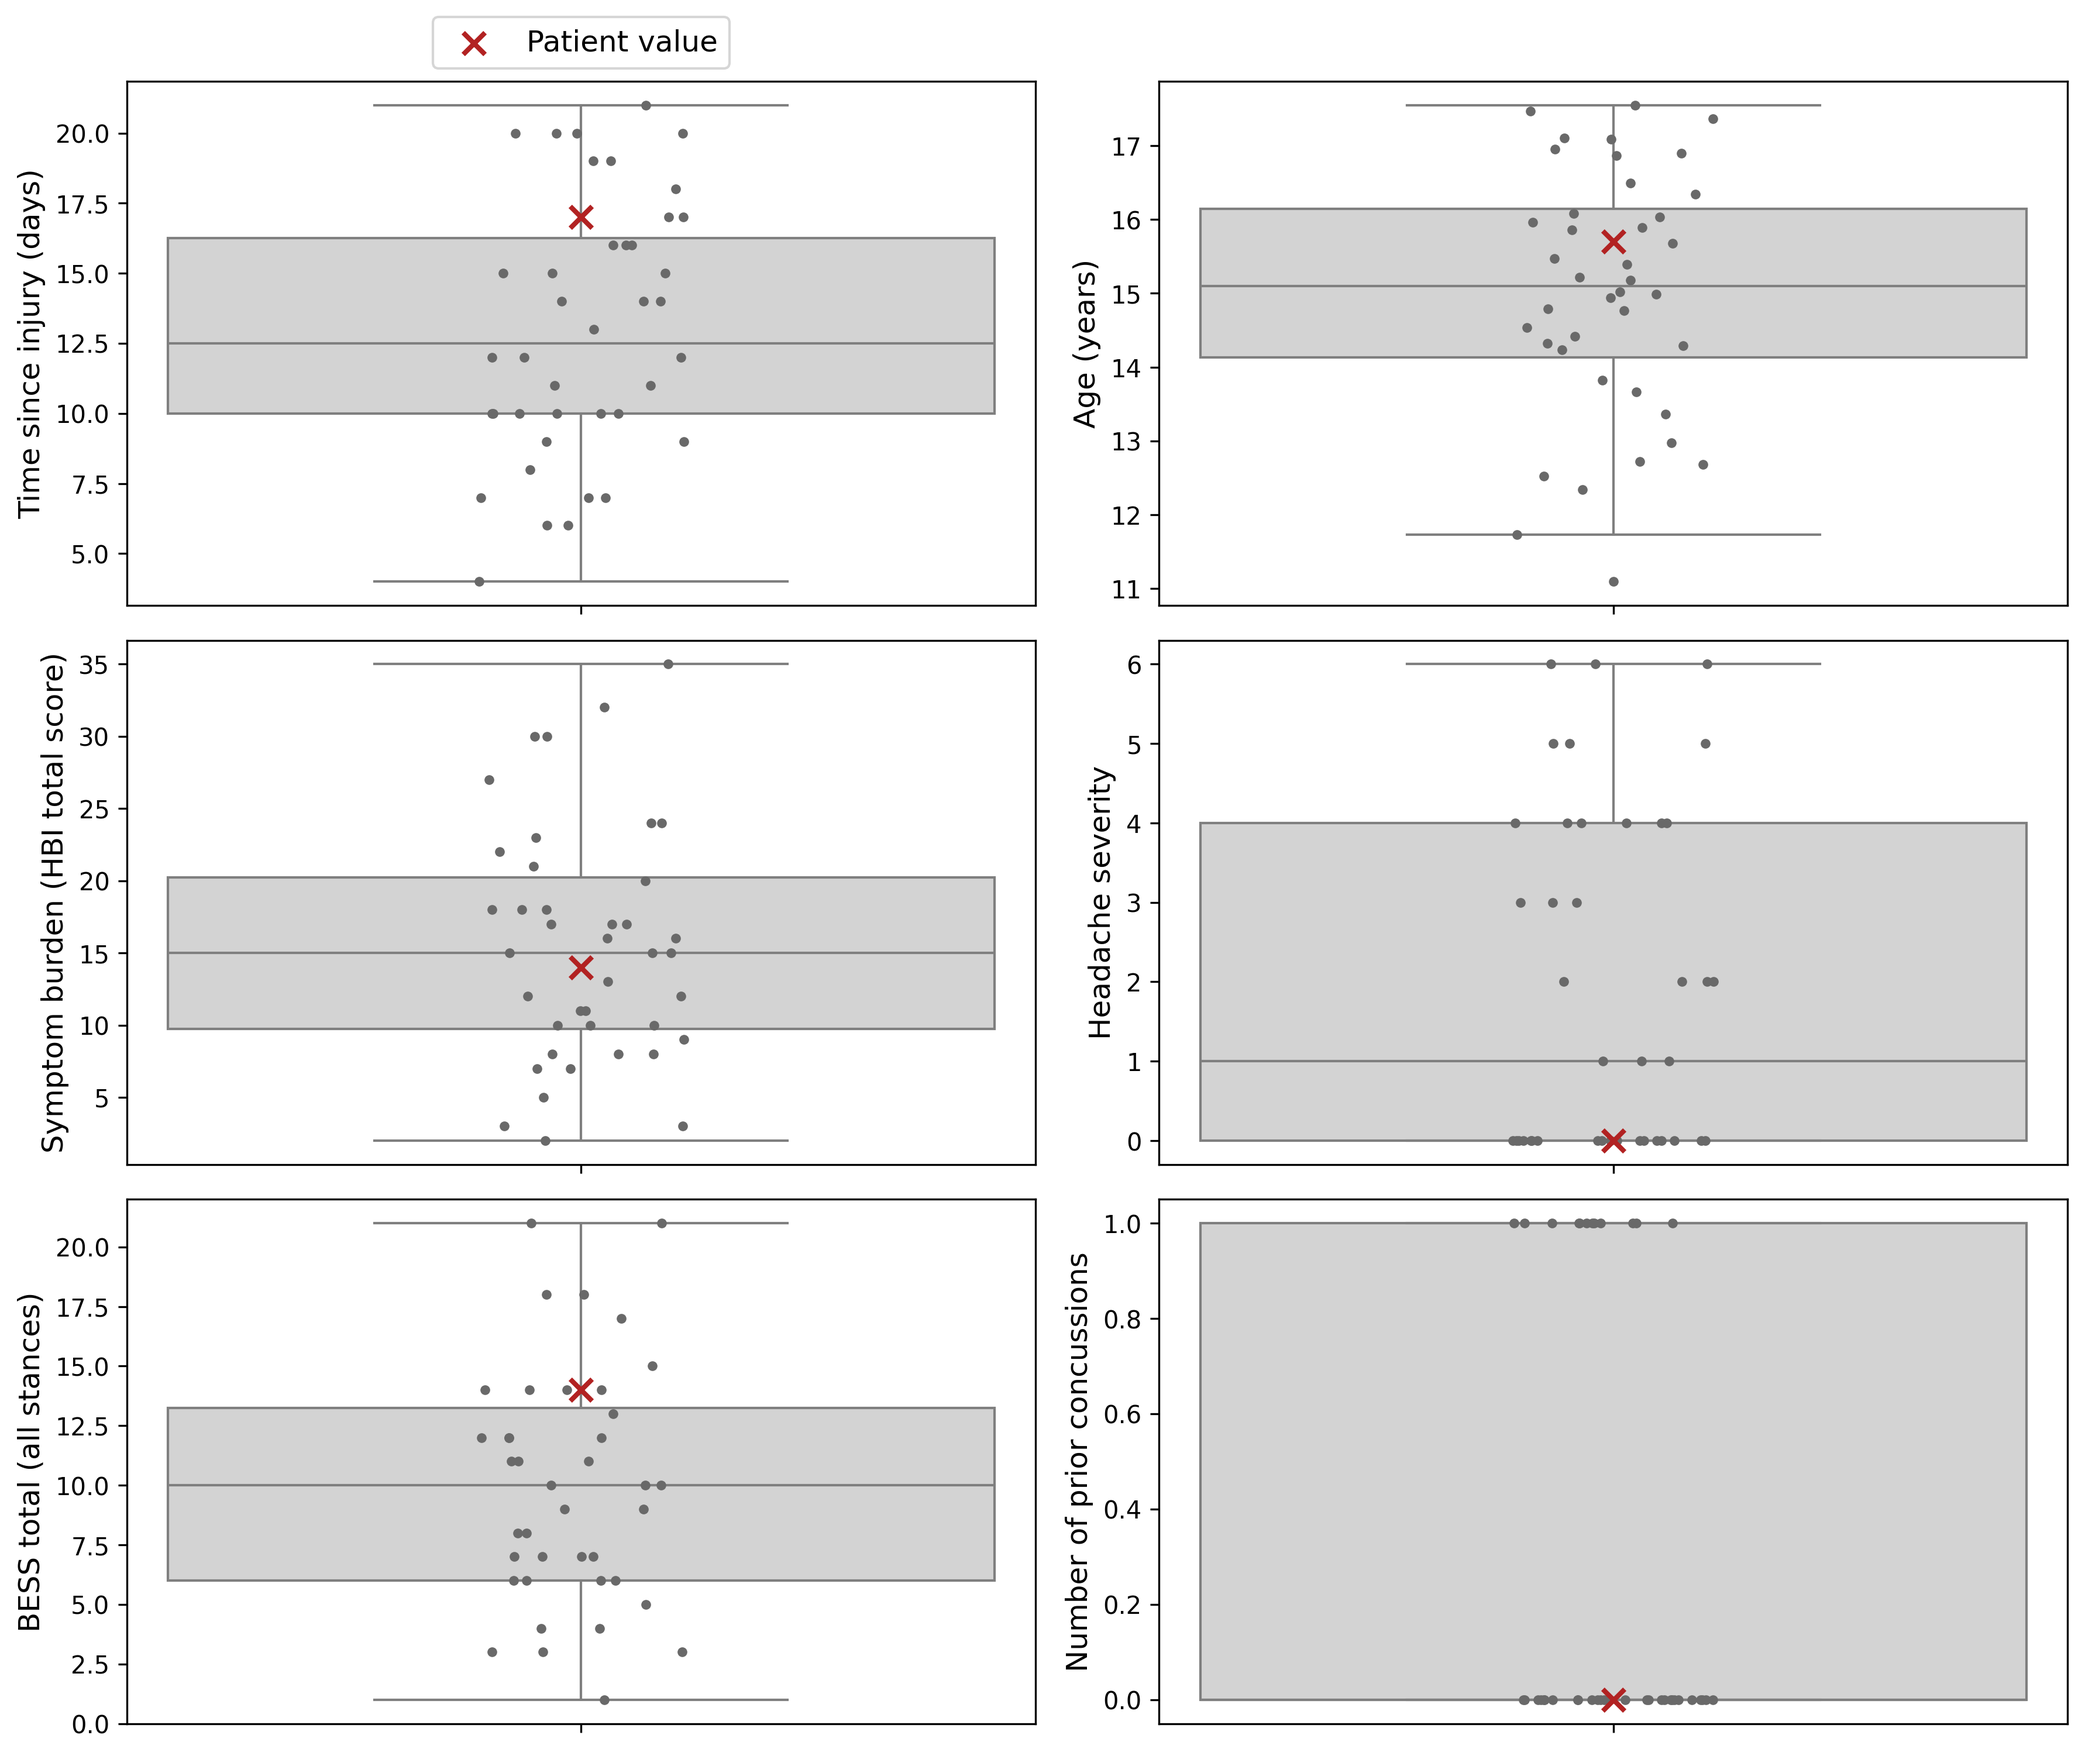
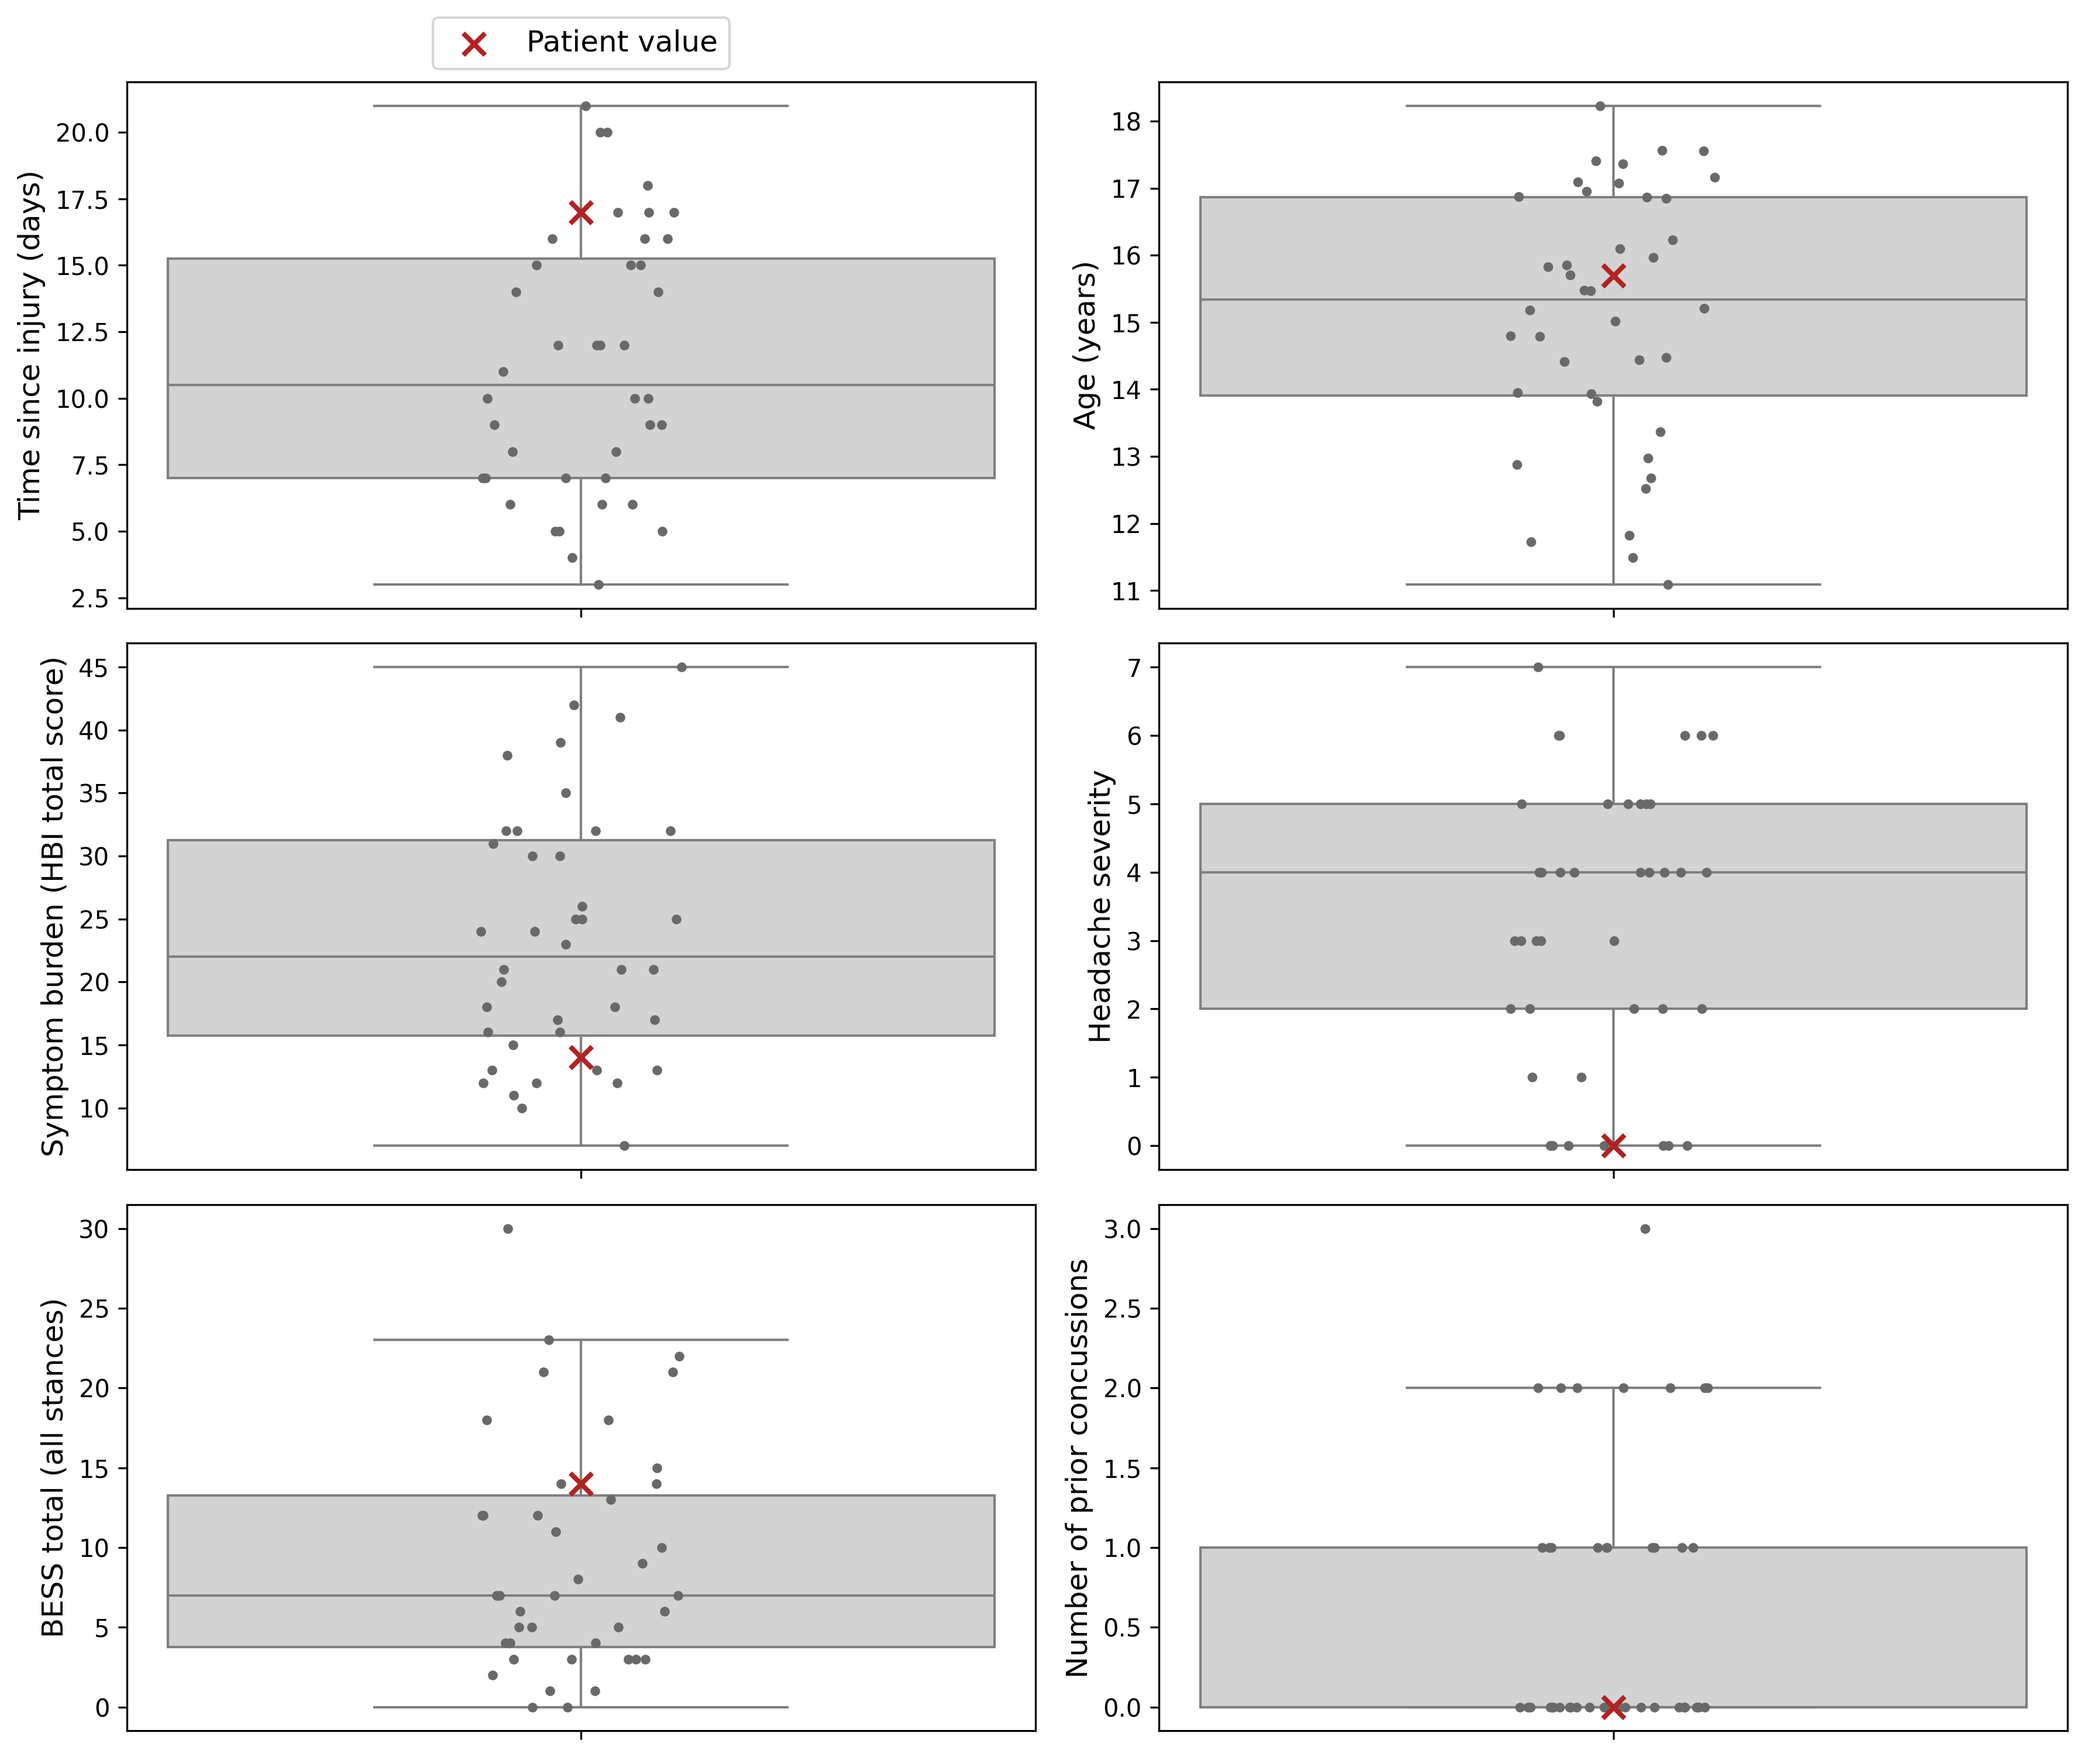
various small changes

diff --git a/distances.py b/distances.py
@@ -14,7 +14,10 @@ from pywaffle import Waffle
 
 ##################### like-me values. defined here and used below
 like_me_value = 40
-like_me_by = 'mahalanobis_distance_to_patient'
+like_me_by = 'euclidean_distance'
+# mahalanobis_distance_to_patient
+# cosine_similarity or normalized_dot_product_distance - have to switch to max...
+# euclidean_distance
 #####################
 
 # assign X from pre_processing to df
@@ -89,56 +92,24 @@ for i, row in cohort.iterrows():
     cohort.loc[i, "normalized_dot_product_distance"] = norm_dot_prod
     cohort.loc[i, "euclidean_distance"] = euclid_dist
 
-metrics = ['mahalanobis_distance_to_cohort', 'mahalanobis_distance_to_patient', 'cosine_similarity', 'normalized_dot_product_distance', 'euclidean_distance']
+metrics = ['mahalanobis_distance_to_patient', 'cosine_similarity', 'normalized_dot_product_distance', 'euclidean_distance']
 cohort[metrics].head()
 
 ###############
 ## Quick comparisons between metrics
-# mahalanobis vs euclidean
-plt.figure()
-plt.scatter(x=cohort['mahalanobis_distance_to_patient'], y=cohort['euclidean_distance'])
-plt.show()
-
-# mahalanobis vs cosine_similarity
-plt.figure()
-plt.scatter(x=cohort['mahalanobis_distance_to_patient'], y=cohort['cosine_similarity'])
-plt.show()
-
-# mahalanobis vs normalized_dot_product_distance
-plt.figure()
-plt.scatter(x=cohort['mahalanobis_distance_to_patient'], y=cohort['normalized_dot_product_distance'])
-plt.show()
-
-#############
-# cosine_similarity vs euclidean
-plt.figure()
-plt.scatter(x=cohort['cosine_similarity'], y=cohort['euclidean_distance'])
-plt.show()
-
-# cosine_similarity vs normalized_dot_product_distance
-plt.figure()
-plt.scatter(x=cohort['cosine_similarity'], y=cohort['normalized_dot_product_distance'])
-plt.show()
-
-################
-# euclidean_distance vs normalized_dot_product_distance
-plt.figure()
-plt.scatter(x=cohort['euclidean_distance'], y=cohort['normalized_dot_product_distance'])
-plt.show()
+sn.pairplot(data=cohort[metrics])
+plt.savefig("./figs/metrics_plot")
 
 ###################
 ## Plot KDE of mahalanobis_distance_to_cohort
 # plot cohort, vertical line for pt_mahalanobis_distance_from_cohort
-cohort['mean_centered_mahalanobis_distance_to_cohort'] = cohort['mahalanobis_distance_to_cohort'] - np.mean(cohort['mahalanobis_distance_to_cohort'])
-mean_centered_pt_mahalanobis_distance_from_cohort = pt_mahalanobis_distance_from_cohort - np.mean(cohort['mahalanobis_distance_to_cohort'])
-
 plt.figure()
 sn.kdeplot(
-    x=cohort['mean_centered_mahalanobis_distance_to_cohort'],
+    x=cohort['mahalanobis_distance_to_cohort'],
     fill=True,
     alpha=0.5,
     color='steelblue')
-plt.axvline(mean_centered_pt_mahalanobis_distance_from_cohort, color='firebrick', linestyle='--', linewidth=2, label="Patient Mahalanobis Distance from Cohort")
+plt.axvline(pt_mahalanobis_distance_from_cohort, color='firebrick', linestyle='--', linewidth=2, label="Patient Mahalanobis Distance from Cohort")
 plt.xlabel("Mahalanobis Distances")
 plt.ylabel("Smoothed Kernel Density")
 plt.legend(loc='upper center', bbox_to_anchor=(0.5, 1.1))
@@ -214,7 +185,7 @@ plt.savefig("./figs/like_me_aggregated_X", dpi=300, bbox_inches='tight')
 
 #############
 ## plot binary variables too
-vars_ = ['anx_dep', 'current_sleep_problems', 'exercise_since_injury', 'sex1f']
+vars_ = ['current_sleep_problems', 'exercise_since_injury', 'sex1f']
 labels = ['Yes', 'No']
 colors = ['lightblue', 'slategrey']
 counts = {}
@@ -222,24 +193,21 @@ counts = {}
 for var in vars_:
     counts[var] = [(like_me_cohort_original[var] == 1).sum(), (like_me_cohort_original[var] == 0).sum()]
 
-fig, axes = plt.subplots(2, 2, figsize=(7, 8))
+fig, axes = plt.subplots(3, 1, figsize=(7, 8))
 
-axes[0, 0].pie(counts['anx_dep'], labels=None, colors=colors, wedgeprops=dict(linewidth=1, edgecolor="white"))
-axes[0, 0].axis('equal'); axes[0, 0].set_title('Hx of anxiety or depression', fontweight='bold')
+axes[0].pie(counts['sex1f'], labels=None, colors=colors, wedgeprops=dict(linewidth=1, edgecolor="white"))
+axes[0].axis('equal'); axes[0].set_title('Biological Sex: Female', fontweight='bold')
 
-axes[0, 1].pie(counts['current_sleep_problems'], labels=None, colors=colors, wedgeprops=dict(linewidth=1, edgecolor="white"))
-axes[0, 1].axis('equal'); axes[0, 1].set_title('Current sleep problems', fontweight='bold')
+axes[1].pie(counts['current_sleep_problems'], labels=None, colors=colors, wedgeprops=dict(linewidth=1, edgecolor="white"))
+axes[1].axis('equal'); axes[1].set_title('Current sleep problems', fontweight='bold')
 
-axes[1, 0].pie(counts['exercise_since_injury'], labels=None, colors=colors, wedgeprops=dict(linewidth=1, edgecolor="white"))
-axes[1, 0].axis('equal'); axes[1, 0].set_title('Exercising since injury', fontweight='bold')
-
-axes[1, 1].pie(counts['sex1f'], labels=None, colors=colors, wedgeprops=dict(linewidth=1, edgecolor="white"))
-axes[1, 1].axis('equal'); axes[1, 1].set_title('Biological Sex: Female', fontweight='bold')
+axes[2].pie(counts['exercise_since_injury'], labels=None, colors=colors, wedgeprops=dict(linewidth=1, edgecolor="white"))
+axes[2].axis('equal'); axes[2].set_title('Exercising since injury', fontweight='bold')
 
 handles = [
     Patch(facecolor=colors[0], edgecolor="white", label="Yes"),
     Patch(facecolor=colors[1], edgecolor="white", label="No")]
-fig.legend(handles=handles, loc="upper center", ncol=2, bbox_to_anchor=(0.5, 0.05), frameon=False, handlelength=1, prop={'size': 12})
+fig.legend(handles=handles, loc="upper center", ncol=2, bbox_to_anchor=(0.5, 1.05), frameon=False, handlelength=1, prop={'size': 12})
 plt.tight_layout()
 plt.savefig("./figs/like_me_aggregated_X_categoricals", dpi=300, bbox_inches='tight')
 

diff --git a/pre_processing.py b/pre_processing.py
@@ -12,23 +12,19 @@ df.columns
 df.shape
 
 # drop a few extra cols
-df.drop(columns = ['bess_hard1', 'bess_hard2', 'bess_hard3', 'loc', 'add_adhd', 'ld_dyslexia', 'migraines'], inplace=True)
+df.drop(columns = ['bess_hard1', 'bess_hard2', 'bess_hard3', 'loc', 'add_adhd', 'ld_dyslexia', 'migraines', 'anxiety', 'depression'], inplace=True)
 
 # check value counts
-categoricals = ['sex1f', 'number_prior_conc', 'anxiety', 'depression', 'exercise_since_injury', 'headache_severity', 'current_sleep_problems']
+categoricals = ['sex1f', 'number_prior_conc', 'exercise_since_injury', 'headache_severity', 'current_sleep_problems']
 for col in categoricals:
     print(df[col].value_counts())
-
-# combine cols with low value counts
-df['anx_dep'] = np.where((df['anxiety'] == 1) | (df['depression'] == 1), 1, 0)
-
-# drop low value count cols
-df.drop(columns = ['anxiety', 'depression'], inplace=True)
 
 ##############
 ## Separate the recovery outcomes from the actual features used for similarity comparison
 X = df.drop(columns=['time_sx', 'PPCS', 'time_rtp'])
 y = df[['time_sx', 'PPCS', 'time_rtp']]
+
+X.shape
 
 #############
 ## Check for missingness 
@@ -36,7 +32,7 @@ X.isna().sum()
 X.describe()
 
 # KNN imputer
-imputer = KNNImputer(n_neighbors=20)
+imputer = KNNImputer(n_neighbors=40)
 X = pd.DataFrame(imputer.fit_transform(X), columns=X.columns, index=X.index)
 
 # Check cols
@@ -45,7 +41,7 @@ for col in X.columns:
 
 # round all cols except age to nearest whole num
 col_to_round = ['time_since_injury', 'sex1f', 'number_prior_conc', 'exercise_since_injury', 
-    'headache_severity', 'current_sleep_problems', 'BESS_total', 'HBI_total', 'anx_dep']
+    'headache_severity', 'current_sleep_problems', 'BESS_total', 'HBI_total']
 
 for col in col_to_round:
     X[col] = np.round(X[col])

diff --git a/UMAP_and_cluster.py b/UMAP_and_cluster.py
@@ -1,7 +1,7 @@
-from mahalanobis_distance import cohort, y, patient, patient_y
-from mahalanobis_distance import like_me_cohort, like_me_y
-from mahalanobis_distance import like_me_cohort_original, patient_original
-from mahalanobis_distance import sample, idx
+from distances import cohort, y, patient, patient_y
+from distances import like_me_cohort, like_me_y
+from distances import like_me_cohort_original, patient_original
+from distances import sample, idx
 
 import pandas as pd 
 import numpy as np
@@ -42,7 +42,11 @@ plt.show()
 
 
 
-# Do clustering algorithm
+## To try with UMAP:
+# Match UMAP metric with metric used in distance calcs
+# set up a random state 
+# tune n_neighbors 
 
+# explore UMPA github example
 
-# Visualize clustering alg 
+# try t-sne or pca

diff --git a/README.md b/README.md
@@ -18,7 +18,7 @@ Taken together, a quality data science and machine learning approach to supporti
 #### An Overview:
 
 1. A sample of patients seen for post-concussion care in our sports medicine clinic (n=558)
-    - Limit to just the high level features... this is a proof of concept project, so feasability is most important right now (13 features total)
+    - Limit to just the high level features... this is a proof of concept project, so feasability is most important right now (9 features total)
     - One-hot for categoricals
 2. Impute missing data
     - Impution strategy was KNN (K=20) 
